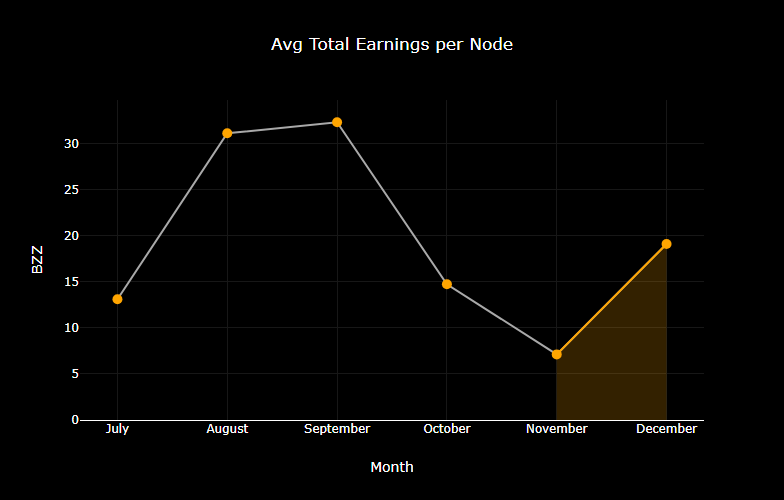
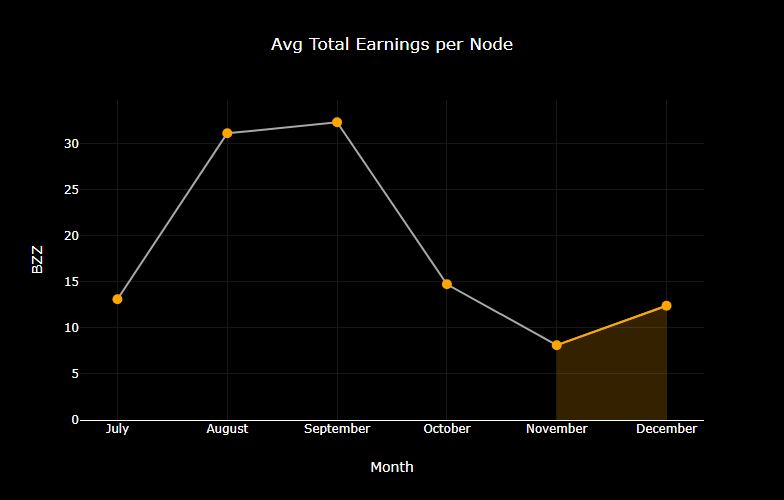
Edits to december report

Changed region(s): [[0.6735, 0.48, 0.8571, 0.72], [0.5816, 0.57, 0.6429, 0.63], [0.6429, 0.63, 0.6735, 0.66]]

diff --git a/content/foundation/posts/swarm-state-of-the-network-december-2023.md b/content/foundation/posts/swarm-state-of-the-network-december-2023.md
@@ -1,7 +1,7 @@
 +++
 banner = "/uploads/viktors-blog.jpeg"
 categories = [ "Development updates" ]
-date = 2050-01-10T00:00:00.000Z
+date = 2024-01-10T00:00:00.000Z
 description = "In this month's analysis, we turn our attention to the Swarm network's performance in December, comparing it with previous months to draw insights into evolving trends and developments. Our report delves into key metrics such as total monthly rewards, median and average win values, and the average earnings per active staking node. Notably, we'll discuss the network's adaptation to an increasingly competitive staking landscape, highlighting the resilience and efficiency of Swarm's economic model and pricing mechanism."
 references_and_footnotes = [ ]
 title = "State of the Network: December"
@@ -13,9 +13,9 @@ slug="state-of-the-network-december"
 
 In this month's analysis, we turn our attention to the Swarm network's performance in December, comparing it with previous months to draw insights into evolving trends and developments. Our report delves into key metrics such as total monthly rewards, median and average win values, and the average earnings per active staking node. Notably, we'll discuss the network's adaptation to an increasingly competitive staking landscape, highlighting the resilience and efficiency of Swarm's economic model and pricing mechanism.
 
-### Data Considerations
+## Data Considerations 
 
-The "Active staking node" metric is defined as any full node with a reserve size greater than zero which has submitted a commit transaction during the month in question. This definition, introduced last month, provides a more accurate reflection of active participation in the network.
+The definitions of active staking nodes has reverted to nodes which have submitted a commit transaction at least within the month. See below for more details.
 
 ## Network Total Monthly Rewards
 
@@ -32,7 +32,7 @@ This metric shows the total rewards paid out across the entire network for each 
 
 ![chart-Total-Network-Monthly-Rewards](/uploads/chart-Total-Network-Monthly-Rewards-December.png)
 
-In December, a record 159,865 xBZZ in rewards were issued to node operators, representing a moderate increase in network utilisation. This growth in rewards, fuelled by demand for data storage services, demonstrates the network's healthy utilisation and efficiency.  
+In December, a record 159,865 xBZZ in rewards was issued to node operators, representing a moderate increase in network utilisation. This growth in winnings, fuelled by demand for data storage services, demonstrates a continuing trend of growth in network utilisation.  
 
 ## Monthly Median Win Values
 
@@ -49,7 +49,7 @@ This metric is the median win amount for each win event.
 
 ![chart-Monthly-Median-Win-Values](/uploads/chart-Monthly-Median-Win-Values-December.png)
 
-December saw a slight increase in the median win value to 48.06 xBZZ, demonstrating a consistent and reliable reward size for win events.
+December saw a slight increase in the median win value to 48.06 xBZZ, demonstrating a consistent pattern in average reward size for win events.
 
 ## Monthly Average Win Values
 
@@ -66,28 +66,13 @@ This metric is the average win amount for each win event.
 
 ![chart-Monthly-Average-Win-Values](/uploads/chart-Monthly-Average-Win-Values-December.png)
 
-The average win value in December climbed to 57.75 xBZZ, reflecting an increase from November and underscoring the network's dynamic reward system and self sustaining economic model.
+The average win value in December climbed to 57.75 xBZZ, reflecting an increase from November.
 
-## Active Staking Node Monthly Average Earnings
 
-This metric shows the average monthly earnings for an active staking node.
+## Total Active Staking Nodes by Month 
 
-| Month     | Avg Total Earnings per Node (xBZZ) |
-|-----------|------------------------------------|
-| July      | 13.11                              |
-| August    | 31.11                              |
-| September | 32.31                              |
-| October   | 14.73                              |
-| November  | 7.12                               |
-| **December** | **19.10**                    |
+This metric shows the total nodes actively staking each month, as measured by whether the node has submitted a commit transaction within the month. Due to network churn, and as there may be some neighbourhoods not chosen to issue commit transactions for the given month, this metric is not 100% accurate. It is however a very valuable metric for understanding trends in network dynamics.
 
-![chart-Avg-Total-Earnings-per-Node](/uploads/chart-Avg-Total-Earnings-per-Node-December.png)
-
-December observed an increase in average earnings per active staking node to 19.10 xBZZ. This rise, amidst a decrease in the total number of nodes, is demonstrative of the network's economic model working properly and adjusting rewards in response to an increase in staking competition.
-
-## Total Active Staking Nodes by Month
-
-This metric shows the total active staking nodes by month. 
 
 | Month     | Total Active Staking Nodes |
 |-----------|----------------------------|
@@ -95,12 +80,30 @@ This metric shows the total active staking nodes by month.
 | August    | 4,368                       |
 | September | 4,574                       |
 | October   | 10,367                      |
-| November  | 20,868                      |
-| **December** | **8,374**               |
+| November  | 18,297           |
+| **December** | **12,891**               |
 
 ![chart-Total-Active-Staking-Nodes](/uploads/chart-Total-Active-Staking-Nodes-December.png)
 
-December saw a reduction in the number of active staking nodes to 8,374. See the section on staking nodes by country later in this article for a more detailed breakdown of the global changes in staking nodes.
+December saw a reduction in the number of active staking nodes to 12,891. See the section on staking nodes by country later in this article for a more detailed breakdown of the global changes in staking nodes.
+
+
+## Active Node Monthly Average Earnings
+
+This metric shows the average monthly earnings for a participating staking node.
+
+| Month     | Avg Total Earnings per Node (xBZZ) |
+|-----------|------------------------------------|
+| July      | 13.11                              |
+| August    | 31.11                              |
+| September | 32.31                              |
+| October   | 14.73                              |
+| November  | 8.12                               |
+| **December** | **12.40**                    |
+
+![chart-Avg-Total-Earnings-per-Node](/uploads/chart-Avg-Total-Earnings-per-Node-December.png)
+
+December observed an increase in average earnings per active staking node to 12.40 xBZZ. This rise, amidst a decrease in the total number of nodes, is demonstrative of the network's economic model adapting in response to an increase in staking competition.
  
 ## Total Winning Nodes by Month
 
@@ -129,15 +132,15 @@ This metric shows the total number of active staking nodes across various countr
 | August        | 855   | 1,481    | 1,611    | 267     | 7             | 147   |
 | September     | 574   | 2,046    | 1,607    | 217     | 8             | 123   |
 | October       | 6,242  | 2,042    | 1,543    | 175     | 282           | 91    |
-| November      | 16,145 | 2,225    | 1,961    | 37      | 363           | 137   |
-| **December**   |  **4,730**|  **1,732**  |**1,580**  | **13** | **275**  | **44**   |
+| November      | 14,270 | 1,976    | 1,531    | 113      | 344           | 63   |
+| **December**   |  **8,333**|  **2,001**  |**1,919**  | **265** | **312**  | **61**   |
 
 
 ![Total Staking Nodes by Country](/uploads/Total-Active-Staking-Nodes-by-Country-December.png)
 
-In December, there was a notable reshuffling in the distribution of active staking nodes, with a significant reduction in China and adjustments across other regions. This redistribution reflects the network's dynamic nature and adaptable economic model.
+In December, there was a notable reshuffling in the distribution of active staking nodes, with a significant reduction in China and smaller adjustments across other regions. This redistribution reflects the network's dynamic nature and continually evolving global footprint.
 
 ## Conclusion
 
-Over the last six months, the Swarm network has shown considerable resilience and adaptability. The shifts in total monthly rewards, win values, and the average earnings per node underscore a network that is not only growing but also evolving in its economic dynamics and network utilisation. The changing landscape of active node across different countries highlights Swarm's influence in the decentralized storage space. These developments point towards an active, expanding, and diversifying network.
+Over the last six months, the Swarm network has shown considerable resilience and adaptability. The shifts in total monthly rewards, win values, and the average earnings per node underscore a network that is not only growing but also evolving in its economic dynamics and network utilisation. The changing landscape of active nodes across different countries highlights Swarm's influence in the decentralized storage space. These developments point towards an active, expanding, and diversifying network.
 

diff --git a/content/foundation/posts/swarm-state-of-the-network-november-2023.md b/content/foundation/posts/swarm-state-of-the-network-november-2023.md
@@ -12,8 +12,9 @@ slug="state-of-the-network-november"
 In this detailed analysis, we focus on the Swarm network's performance in November, placing it in context with data from recent months to highlight trends and changes. This report explores a variety of critical metrics, including total monthly rewards, median and average win values, and the average earnings per active staking node. We also delve into the increasing number of active staking nodes, examining their distribution globally. 
 
 ### Data Considerations
+The definition for active staking has been reverted to nodes which have submitted at least one commit transaction within the month in question, relevant figures have been updated accordingly. (Edit - 1/15/24) 
 
-The "Active staking node" metric has been redefined as any full node with a greater than zero reserve size at some point in the month. This has not been retroactively applied to past months, but will be the definition used in future months. 
+~~The "Active staking node" metric has been redefined as any full node with a greater than zero reserve size at some point in the month. This has not been retroactively applied to past months.~~
 
 ## Network Total Monthly Rewards
 
@@ -75,7 +76,7 @@ This metric shows the average monthly earnings for an active staking node.
 | August    | 31.11                              |
 | September | 32.31                              |
 | October   | 14.73                              |
-| **November**  | **7.12**                             |
+| **November**  | **8.12**                             |
 
 ![chart-Avg-Total-Earnings-per-Node](/uploads/chart-Avg-Total-Earnings-per-Node-November.png)
 
@@ -92,7 +93,7 @@ This metric shows the total active staking nodes by month.
 | August    | 4,368                       |
 | September | 4,574                       |
 | October   | 10,367                      |
-| **November**  | **20,868**                      |
+| **November**  | **18,297**                      |
 
 ![chart-Total-Active-Staking-Nodes](/uploads/chart-Total-Active-Staking-Nodes-November.png)
 
@@ -127,7 +128,7 @@ This metric shows the total number of active staking nodes across the top four c
 | August        | 855   | 1,481    | 1,611    | 267     | 7             | 147   |
 | September     | 574   | 2,046    | 1,607    | 217     | 8             | 123   |
 | October       | 6,242  | 2,042    | 1,543    | 175     | 282           | 91    |
-| **November**      | **16,145** | **2,225**    | **1,961**    | **37**      | **363**           | **137**   |
+| **November**      | **14,270** | **1,976**    | **1,531**    | **113**      | **344**           | **63**   |
 
 ![Total Staking Nodes by Country.png](/uploads/Total-Active-Staking-Nodes-by-Country.png)
 
